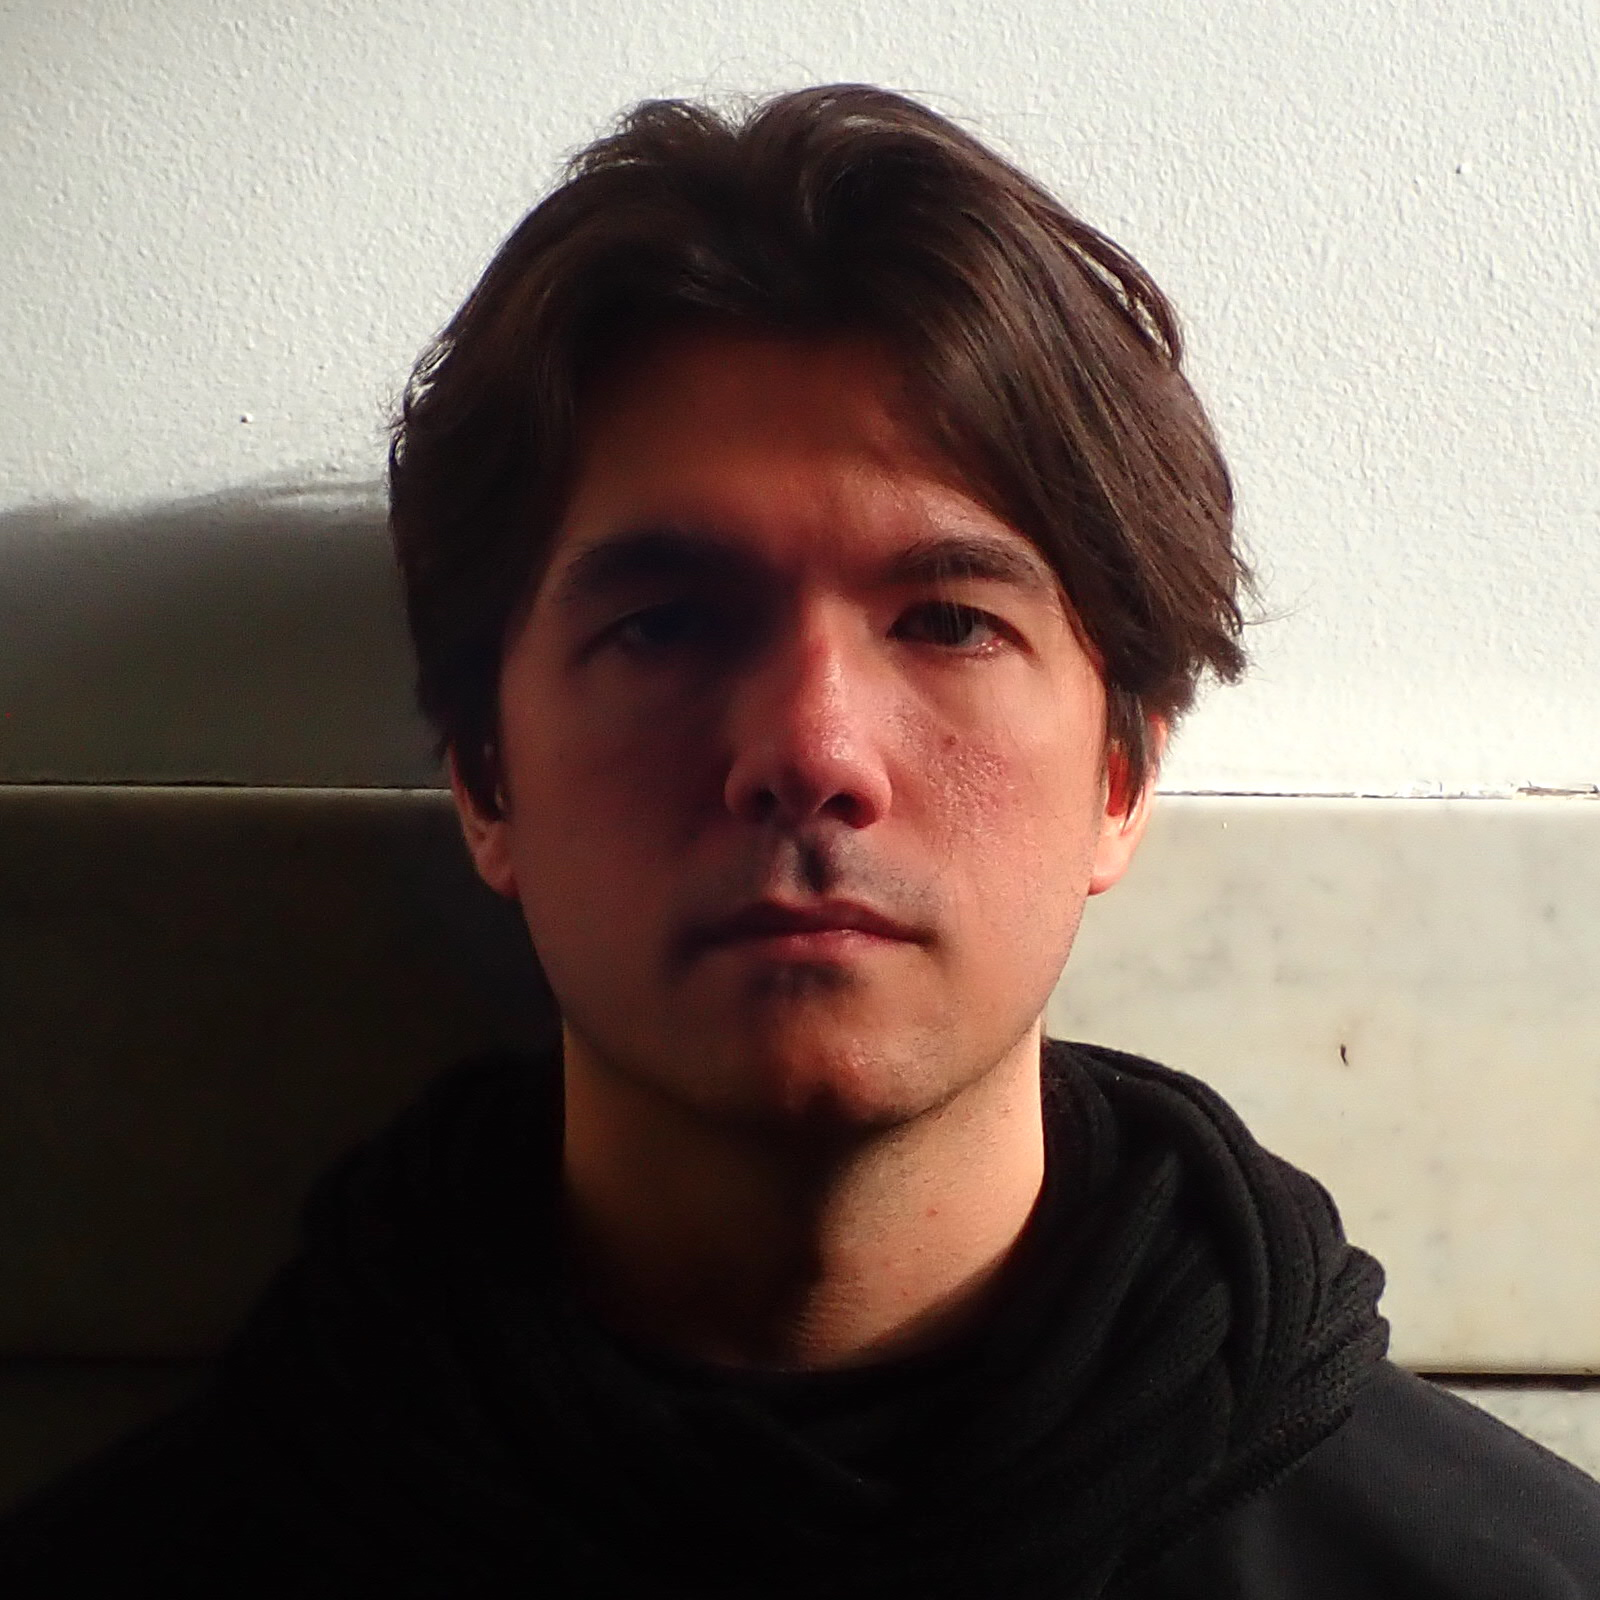
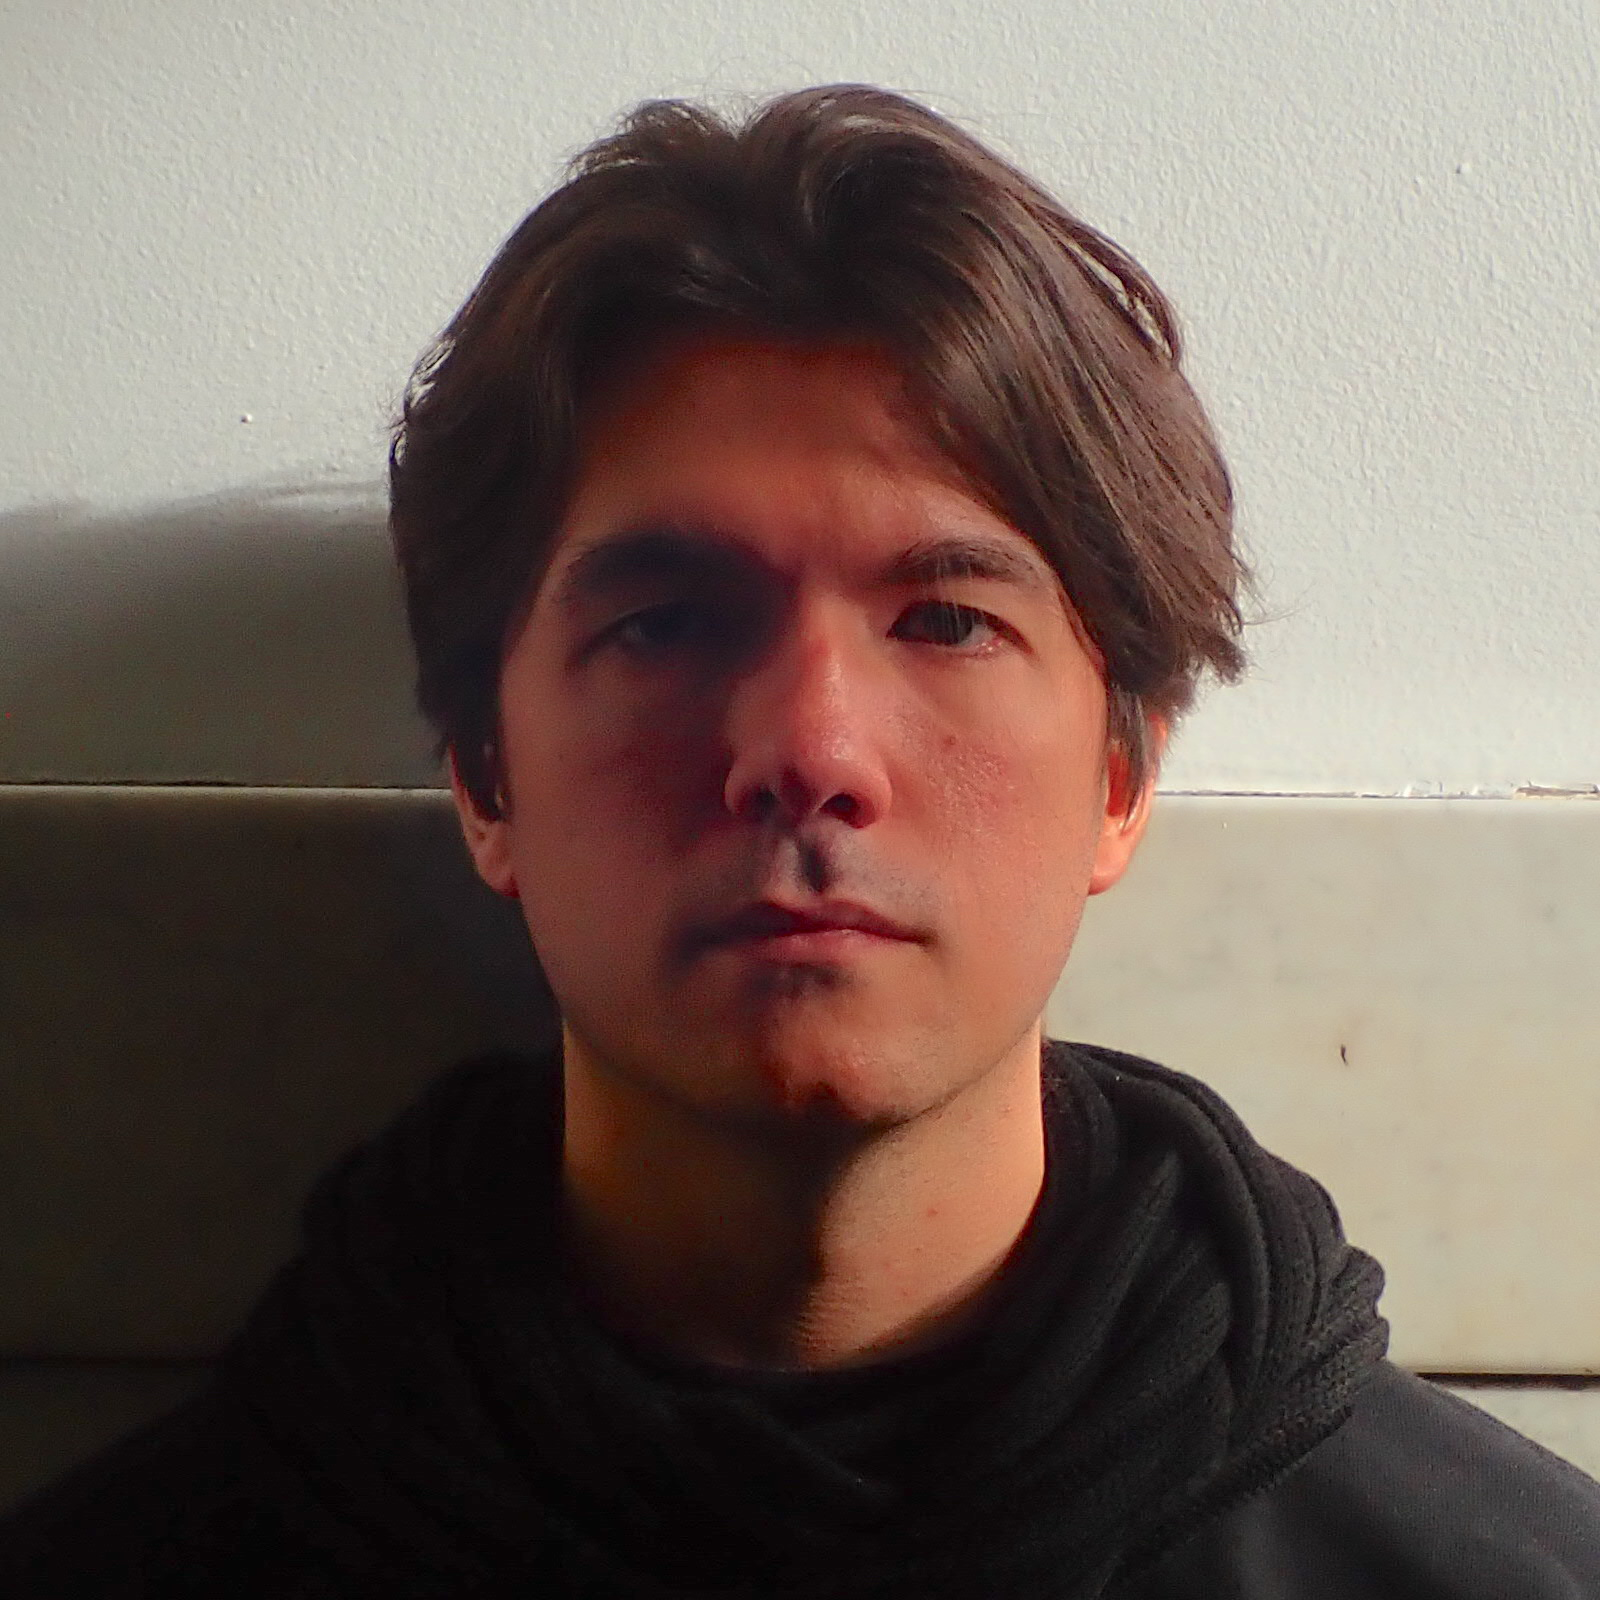
modified:   images/gonzalez-2019-efforts.jpg 	modified:   index.html

diff --git a/index.html b/index.html
@@ -21,7 +21,7 @@
     <body>
         <div class="container">
             <div class="sidebar">
-                <img class="headshot" src="images/avatar-short-tie-black.png">
+                <img class="headshot" src="images/gonzalez-2019-efforts.jpg">
                 <br>
                 <div class="info">
                     <div class="name">Daniel&nbsp;Gonzalez<br>高明俊</div>
